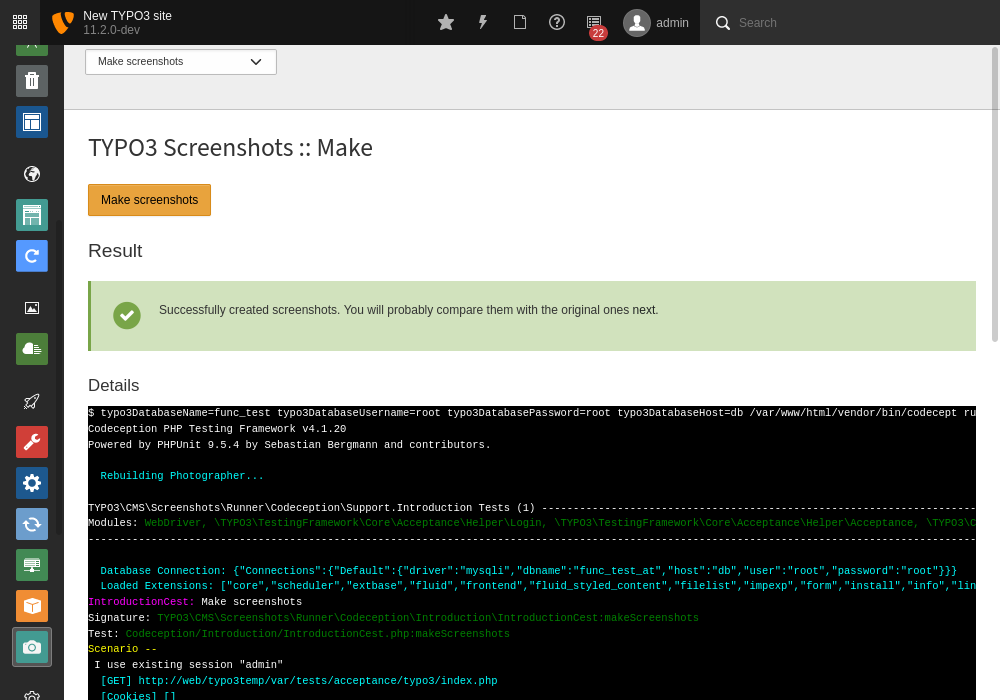
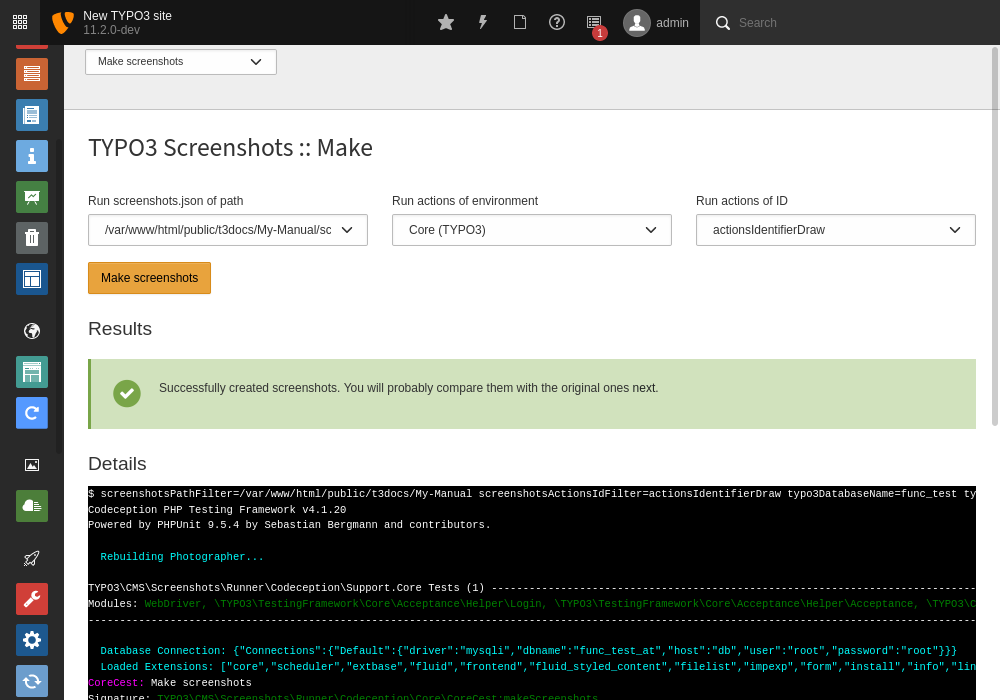
[DOCS] Document the selection of specific screenshots.json

diff --git a/README.rst b/README.rst
@@ -113,7 +113,7 @@ Create a basic ``screenshots.json`` in an arbitrary manual folder at ``public/t3
 
    ddev init-screenshot-json [-t folder]
 
-where ``[-t folder]`` defaults to ``My-Manual`` if left blank.
+where ``folder`` defaults to ``My-Manual`` if left blank.
 
 This is a small runner configuration which takes screenshots of three TYPO3 environments:
 
@@ -322,6 +322,17 @@ Make all screenshots
 
    ddev make-screenshots
 
+Make screenshots of specific ``screenshots.json`` file
+------------------------------------------------------
+
+A folder path can be specified to execute only the actions of this particular ``screenshots.json``. The folder path can
+be defined as an absolute path or relative to ``public/t3docs``, e.g. this command executes only
+``public/t3docs/My-Manual/screenshots.json``.
+
+.. code-block:: bash
+
+   ddev make-screenshots -t My-Manual
+
 Make screenshots of TYPO3
 -------------------------
 
@@ -390,10 +401,14 @@ On the welcome page you can select the action you want to perform:
 Make screenshots
 ----------------
 
-On this page you automatically start the screenshot runner, which starts a subprocess on the command line.
+On this page you start the screenshot runner, which starts a subprocess on the command line.
 The result is displayed on this page as soon as the runner is finished - which may take a while.
 
 .. image:: docs/screenshots_manager_make.png
+
+To comfortably work with a large number of ``screenhots.json`` and actions, the number of actions can be reduced by
+using the filter at the top of the page: Only actions matching the path, suite and action ID criteria will then be
+executed.
 
 Compare & copy screenshots
 --------------------------
